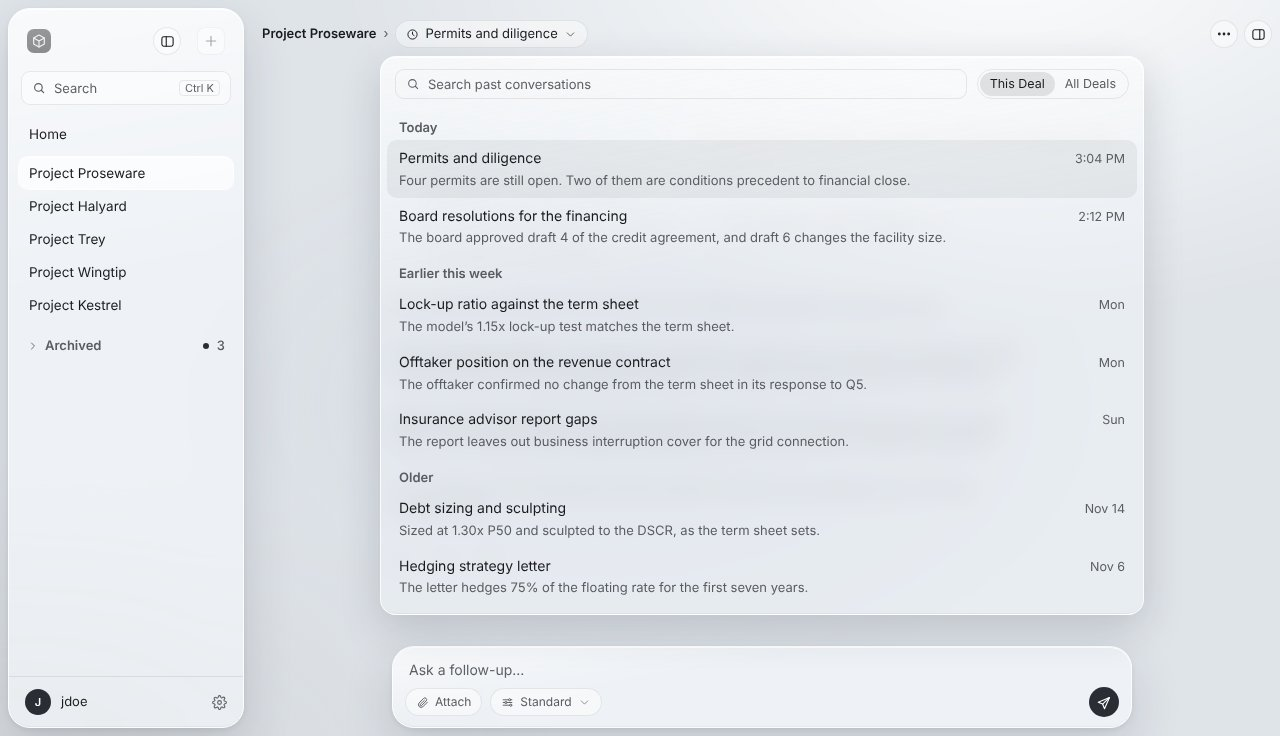
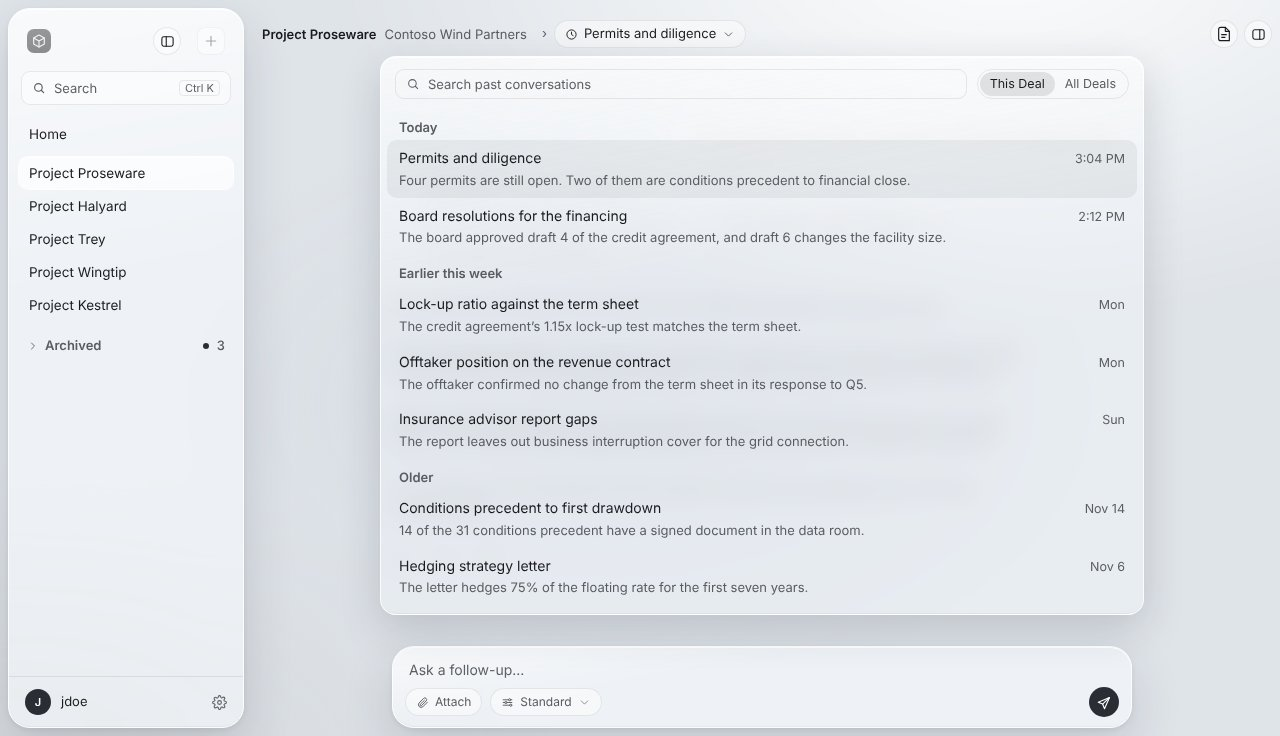
Use document work, not financial model analysis, in sample conversations and tasks (#888)

diff --git a/docs/deal-screen/mock-open-questions.js b/docs/deal-screen/mock-open-questions.js
@@ -114,21 +114,21 @@ const diligenceList = () => diligenceReport(false)
 // ---- Tasks: what Needs Input holds ----
 
 // the research task's short name, so it reads whole in the pane's row and in its card
-const HEADROOM_TASK = 'Covenant headroom';
+const WATERFALL_TASK = 'Intercreditor waterfall';
 
-const TURN_HEADROOM_ASK = '<div class="me">How much covenant headroom is there in the downside case?</div>';
+const TURN_WATERFALL_ASK = '<div class="me">Does the intercreditor waterfall pay the O&amp;M reserve before senior debt?</div>';
 
-const TURN_HEADROOM_NEEDS_INPUT = `${TURN_HEADROOM_ASK}
+const TURN_WATERFALL_NEEDS_INPUT = `${TURN_WATERFALL_ASK}
 <div class="ai"><p>I’m checking that as a task. It’s in Tasks, and I’ll answer here when it’s done.</p>
-${taskCard('logedit', HEADROOM_TASK, 'Needs input')}</div>`;
+${taskCard('logedit', WATERFALL_TASK, 'Needs input')}</div>`;
 
 const REVIEW_BUTTON = (label) => `<button class="btn sm">${label}</button>`;
 
 // Needs Input: drafts to review, a task's question to the person, and items Diligence left out
 const NEEDS_INPUT_ROWS = [
   taskRow('sheet', 'Draft responses for open questions', '40 ready', { end: REVIEW_BUTTON('Review') }),
-  taskRow('logedit', HEADROOM_TASK, 'Pick a model',
-    { end: REVIEW_BUTTON('Answer'), hoverText: 'Which model should I use: Nov 3 or Nov 17?' }),
+  taskRow('logedit', WATERFALL_TASK, 'Pick a draft',
+    { end: REVIEW_BUTTON('Answer'), hoverText: 'Which draft is current: draft 5 (Nov 3) or draft 6 (Nov 17)?' }),
   taskRow('cklist', 'Diligence', '12 items not checked', { end: REVIEW_BUTTON('Check Them') }),
 ];
 
@@ -159,8 +159,8 @@ const NEEDS_INPUT_TASKS = `<div class="x-lbl">Needs Input</div><div class="x-tgr
 // every conversation, newest first, with its deal; a dot before the time marks one whose task result arrived since it
 // was last open
 const HOME_PAST_CONVERSATIONS = [
-  ['Today', 'Guarantee cap and covenants', 'Project Proseware', '4:12 PM',
-    'Headroom is 0.08x at the tightest point, in the second year of operations.', true],
+  ['Today', 'Guarantee cap and waterfall', 'Project Proseware', '4:12 PM',
+    'Draft 6 of the intercreditor agreement pays the O&amp;M reserve after senior debt service.', true],
   ['Today', 'Deals with permits that block financial close', '', '3:40 PM',
     'Two deals have open permits that are conditions precedent: Proseware and Wingtip.'],
   ['Today', 'Board resolutions for the financing', 'Project Proseware', '2:12 PM',
@@ -169,10 +169,10 @@ const HOME_PAST_CONVERSATIONS = [
     'The warranty ends in year five, while the O&amp;M contract assumes it runs to year ten.'],
   ['Earlier this week', 'Hedge counterparties across the portfolio', '', 'Mon',
     'Four banks hedge across seven deals; one bank is on five of them.'],
-  ['Earlier this week', 'Tax equity flip date', 'Project Wingtip', 'Mon',
-    'The flip is expected in year nine under the base case.'],
-  ['Older', 'Debt sizing and sculpting', 'Project Proseware', 'Nov 14',
-    'Sized at 1.30x P50 and sculpted to the DSCR, as the term sheet sets.'],
+  ['Earlier this week', 'Tax equity consents', 'Project Wingtip', 'Mon',
+    'The tax equity investor must consent to any change to the O&amp;M contract.'],
+  ['Older', 'Conditions precedent to first drawdown', 'Project Proseware', 'Nov 14',
+    '14 of the 31 conditions precedent have a signed document in the data room.'],
 ];
 
 function homePastRow([group, title, deal, when, preview, updated], index) {
@@ -238,8 +238,8 @@ const OPEN_QUESTION_SCREENS = {
   folders: () => OPEN_QUESTION_SCREENS.dealheader(),
   diligence: () => slimRail() + openQuestionStage(inPermitsChat([TURN_PERMITS, TURN_DILIGENCE_DONE])
     + pane(paneTabs([TASKS_TAB, DILIGENCE_TAB], 'diligence'), diligenceList(), paneWidth())),
-  needsinput: () => slimRail() + openQuestionStage(conversation([TURN_GUARANTEE_CAP, TURN_HEADROOM_NEEDS_INPUT],
-    { title: 'Guarantee cap and covenants', open: true })
+  needsinput: () => slimRail() + openQuestionStage(conversation([TURN_GUARANTEE_CAP, TURN_WATERFALL_NEEDS_INPUT],
+    { title: 'Guarantee cap and waterfall', open: true })
     + pane(paneTabs([TASKS_TAB], 'tasks'), NEEDS_INPUT_TASKS, paneWidth())),
   homepast: () => sidebar() + openQuestionStage(homeScreen()),
   archscale: () => sidebar() + openQuestionStage(homeScreen()),

diff --git a/docs/deal-screen/mock-sidebar.js b/docs/deal-screen/mock-sidebar.js
@@ -106,13 +106,13 @@ const PAST_CONVERSATIONS = [
   ['Today', 'Board resolutions for the financing', '2:12 PM',
     'The board approved draft 4 of the credit agreement, and draft 6 changes the facility size.'],
   ['Earlier this week', 'Lock-up ratio against the term sheet', 'Mon',
-    'The model’s 1.15x lock-up test matches the term sheet.'],
+    'The credit agreement’s 1.15x lock-up test matches the term sheet.'],
   ['Earlier this week', 'Offtaker position on the revenue contract', 'Mon',
     'The offtaker confirmed no change from the term sheet in its response to Q5.'],
   ['Earlier this week', 'Insurance advisor report gaps', 'Sun',
     'The report leaves out business interruption cover for the grid connection.'],
-  ['Older', 'Debt sizing and sculpting', 'Nov 14',
-    'Sized at 1.30x P50 and sculpted to the DSCR, as the term sheet sets.'],
+  ['Older', 'Conditions precedent to first drawdown', 'Nov 14',
+    '14 of the 31 conditions precedent have a signed document in the data room.'],
   ['Older', 'Hedging strategy letter', 'Nov 6',
     'The letter hedges 75% of the floating rate for the first seven years.'],
 ];
